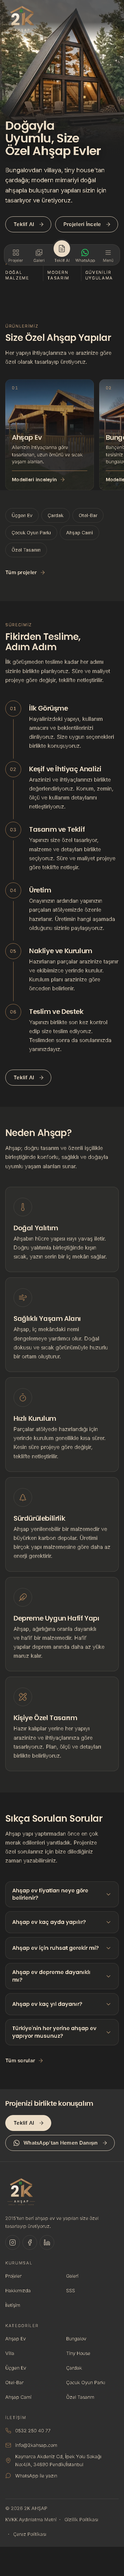
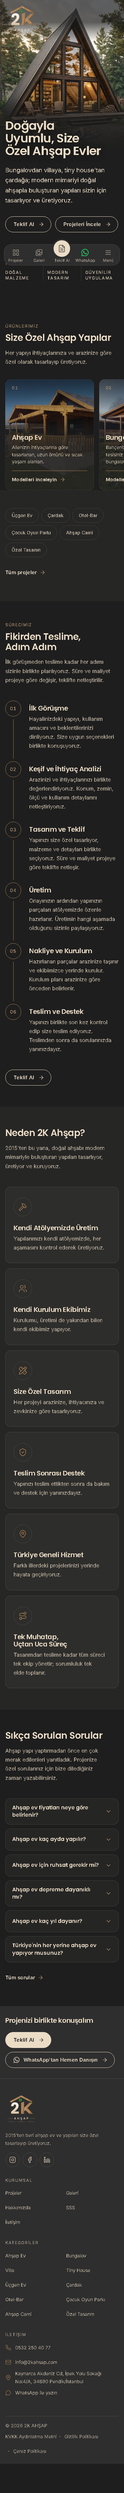
Neden 2K Ahşap bölümü ve Hakkımızda'ya hikâye, vizyon ve misyon
- Ana sayfadaki "Neden Ahşap?" bölümü "Neden 2K Ahşap?" oldu: yeni açıklama
  cümlesi ve 6 madde (atölyede üretim, kurulum ekibi, özel tasarım, teslim
  sonrası destek, Türkiye geneli hizmet, uçtan uca süreç). Kart düzeni aynı.
- İkonlar: kalem-cetvel, kalkan ve konum sitede vardı; çekiç, ekip ve rota
  Lucide'den eklendi. Artık kullanılmayan 5 eski ikon silindi.
- İkon hover'ı: kartın üzerine gelince ikonun çerçevesi butonlardaki gibi
  ahşaba döner, ikon 3 px kalkar (200 ms). Dokunmatikte yok; hareket
  azaltılmışsa yalnızca çerçeve değişir. Durağan görünüm aynı.
- Hakkımızda: Hikâyemiz, Vizyonumuz/Misyonumuz kartları (768 px ve üstünde
  yan yana) ve ortak Neden 2K Ahşap bileşeni eklendi; Sürecimiz ve teklif
  bandı yerinde. Title ve meta açıklama yeni içerikle uyumlu hale getirildi.
- Güvenli mod: form-kontrol temiz. gorsel-kontrol'de yalnızca ana sayfa ve
  Hakkımızda değişti; bu 6 referans yenilendi, diğer 39 çekim aynı.
  Önce/sonra ve hover çekimleri docs/hakkimizda/ altında.

Changed region(s): [[0.0, 0.0, 1.0, 0.9657], [0.528, 0.9034, 0.704, 0.9345], [0.6747, 0.4673, 0.7333, 0.5296]]

diff --git a/src/data/ikonlar.ts b/src/data/ikonlar.ts
@@ -28,14 +28,12 @@ export const ikon = {
   ev: '<path d="M15 21v-8a1 1 0 0 0-1-1h-4a1 1 0 0 0-1 1v8"/><path d="M3 10a2 2 0 0 1 .709-1.528l7-5.999a2 2 0 0 1 2.582 0l7 5.999A2 2 0 0 1 21 10v9a2 2 0 0 1-2 2H5a2 2 0 0 1-2-2z"/>',
   kalkan:
     '<path d="M20 13c0 5-3.5 7.5-7.66 8.95a1 1 0 0 1-.67-.01C7.5 20.5 4 18 4 13V6a1 1 0 0 1 1-1c2 0 4.5-1.2 6.24-2.72a1.17 1.17 0 0 1 1.52 0C14.51 3.81 17 5 19 5a1 1 0 0 1 1 1z"/><path d="m9 12 2 2 4-4"/>',
-  // Neden Ahşap: Doğal Yalıtım, Sağlıklı Yaşam Alanı, Hızlı Kurulum, Sürdürülebilirlik,
-  // Depreme Uygun Hafif Yapı, Kişiye Özel Tasarım
-  termometre: '<path d="M14 4v10.54a4 4 0 1 1-4 0V4a2 2 0 0 1 4 0Z"/>',
-  ruzgar:
-    '<path d="M12.8 19.6A2 2 0 1 0 14 16H2"/><path d="M17.5 8a2.5 2.5 0 1 1 2 4H2"/><path d="M9.8 4.4A2 2 0 1 1 11 8H2"/>',
-  zamanlayici: '<line x1="10" x2="14" y1="2" y2="2"/><line x1="12" x2="15" y1="14" y2="11"/><circle cx="12" cy="14" r="8"/>',
-  agac: '<path d="m17 14 3 3.3a1 1 0 0 1-.7 1.7H4.7a1 1 0 0 1-.7-1.7L7 14h-.3a1 1 0 0 1-.7-1.7L9 9h-.2A1 1 0 0 1 8 7.3L12 3l4 4.3a1 1 0 0 1-.8 1.7H15l3 3.3a1 1 0 0 1-.7 1.7H17Z"/><path d="M12 22v-3"/>',
-  tuy: '<path d="M12.67 19a2 2 0 0 0 1.416-.588l6.154-6.172a6 6 0 0 0-8.49-8.49L5.586 9.914A2 2 0 0 0 5 11.328V18a1 1 0 0 0 1 1z"/><path d="M16 8 2 22"/><path d="M17.5 15H9"/>',
+  // Neden 2K Ahşap: Kendi Atölyemizde Üretim (hammer), Kendi Kurulum Ekibimiz (users),
+  // Tek Muhatap, Uçtan Uca Süreç (route); Size Özel Tasarım (pencil-ruler). Diğer maddeler kalkan, konum.
+  cekic:
+    '<path d="m15 12-9.373 9.373a1 1 0 0 1-3.001-3L12 9"/><path d="m18 15 4-4"/><path d="m21.5 11.5-1.914-1.914A2 2 0 0 1 19 8.172v-.344a2 2 0 0 0-.586-1.414l-1.657-1.657A6 6 0 0 0 12.516 3H9l1.243 1.243A6 6 0 0 1 12 8.485V10l2 2h1.172a2 2 0 0 1 1.414.586L18.5 14.5"/>',
+  ekip: '<path d="M16 21v-2a4 4 0 0 0-4-4H6a4 4 0 0 0-4 4v2"/><circle cx="9" cy="7" r="4"/><path d="M22 21v-2a4 4 0 0 0-3-3.87"/><path d="M16 3.13a4 4 0 0 1 0 7.75"/>',
+  rota: '<circle cx="6" cy="19" r="3"/><path d="M9 19h8.5a3.5 3.5 0 0 0 0-7h-11a3.5 3.5 0 0 1 0-7H15"/><circle cx="18" cy="5" r="3"/>',
   kalemCetvel:
     '<path d="M13 7 8.7 2.7a2.41 2.41 0 0 0-3.4 0L2.7 5.3a2.41 2.41 0 0 0 0 3.4L7 13"/><path d="m8 6 2-2"/><path d="m18 16 2-2"/><path d="m17 11 4.3 4.3c.94.94.94 2.46 0 3.4l-2.6 2.6c-.94.94-2.46.94-3.4 0L11 17"/><path d="M21.174 6.812a1 1 0 0 0-3.986-3.987L3.842 16.174a2 2 0 0 0-.5.83l-1.321 4.352a.5.5 0 0 0 .623.622l4.353-1.32a2 2 0 0 0 .83-.497z"/><path d="m15 5 4 4"/>',
   instagram:

diff --git a/docs/guvenli-mod/README.md b/docs/guvenli-mod/README.md
@@ -107,6 +107,7 @@ Tek pikselden küçük bir değişiklik (çok küçük puntoda bir nokta gibi) g
 | 13 Ekim 2026 | Bu satırı ekleyen commit (kod ve referanslar birlikte) | Yalnızca T, T2 ve T3 yenilendi (9 referans): teklif formu (onaylı; `docs/teklif-formu/`). Adım göstergesi tek satır oldu: numaralı daire, adım adı (Yapı · Arsa · İletişim) ve ince çizgi. Görünen "ADIM 1 / 3" yazısı ve tarayıcının varsayılan "1. 2. 3." liste numaraları kalktı. Yapı tipine "Diğer" kartı, altına "Projenizi kısaca anlatın" alanı eklendi. T uzadı; T2 ve T3 42 px kısaldı. Yenilemeden önce fark yalnızca bu 9 çekimdeydi; diğer 36 çekim %0 aynıydı. Yenilemeyle aynı turda P 1280'de bilinen header düğmesi oynaması çıktı (sayfanın HTML, CSS ve JS'i değişiklik öncesiyle bayt bayt aynı); yeniden çalıştırınca 45/45 aynı. |
 | 14 Ekim 2026 | Bu satırı ekleyen commit (kod ve referanslar birlikte) | Yalnızca Y (`/kvkk`, 3 referans) yenilendi: yasal sayfaların "Son güncelleme" tarihi 12 Ekim → 14 Ekim 2026 oldu (onaylı). Eski referansla fark yalnızca tarihteki rakamda (7×10 px). 1280 px'te ayrıca header "Teklif Al" düğmesinin bilinen oynaması var (60 piksel, en çok 2 renk düzeyi; Bilinen sınırlar), yeni çekim öbür durumu taşıyor. Diğer 42 çekim aynıydı. |
 | 14 Ekim 2026 | Bu satırı ekleyen commit (kod ve referanslar birlikte) | A, P, K, D, H, S, T, T2, T3, İ, TŞ ve Y yenilendi (36 referans): adres, Google İşletme Profili'ndeki resmi adresle aynı yapıldı (onaylı): "Kaynarca Akdeniz Cd, İpek Yolu Sokağı No:4/A, 34890 Pendik/İstanbul". Her sayfada fark footer'daki adres satırında, satır sayısı aynı. İletişim 375 px'te adres bir satır uzadı, altındaki her şey 27 px kaydı. İletişim 1280 px'te adres 2 satır oldu; sol sütunda harita kutusu 25 px kaydı, sayfa boyu aynı. KVKK 768/1280 px'te adres hücresi 2 satır oldu, altı 27 px kaydı. Eski ve yeni derlemenin CSS/JS'i bayt bayt aynı, HTML'i adres metni dışında aynı. Öğe kutusu karşılaştırmasında yatay konumu değişen öğe yok. P, D ve T3 1280'de ayrıca bilinen header düğmesi oynaması vardı. A1, G, M1 ve M2 yenilenmedi, yenileme turunda aynı çıktı. |
+| 15 Ekim 2026 | Bu satırı ekleyen commit (kod ve referanslar birlikte) | Yalnızca A ve H yenilendi (6 referans; onaylı, önce/sonra çekimleri `docs/hakkimizda/`). Ana sayfadaki "Neden Ahşap?" bölümü "Neden 2K Ahşap?" oldu: yeni açıklama, 6 yeni madde ve ikon; kart düzeni aynı. Aynı bileşen Hakkımızda'ya da eklendi. Hakkımızda'ya Hikâyemiz ile Vizyonumuz/Misyonumuz kartları eklendi, title ve meta açıklama yenilendi. A kısaldı (375 px'te 7762 → 7512), fark Neden bölümünden başlıyor, altındaki bölümler yalnızca kaydı. H uzadı (1280 px'te 1825 → 4060). Neden kartlarına ikon hover'ı eklendi (ahşap çerçeve katmanı ve 3 px kalkma; dokunmatikte yok, hareket azaltılmışsa yalnızca çerçeve). Durağan görünümü değiştirmiyor: hover eklenmeden önceki ve sonraki çekimler piksel piksel aynı; A 1280'deki tek fark bilinen header düğmesi oynaması (63 piksel). Yenilemeden önce fark yalnızca bu 6 çekimdeydi; diğer 39 çekim %0 aynıydı. |
 
 ### Bilinen sınırlar
 
